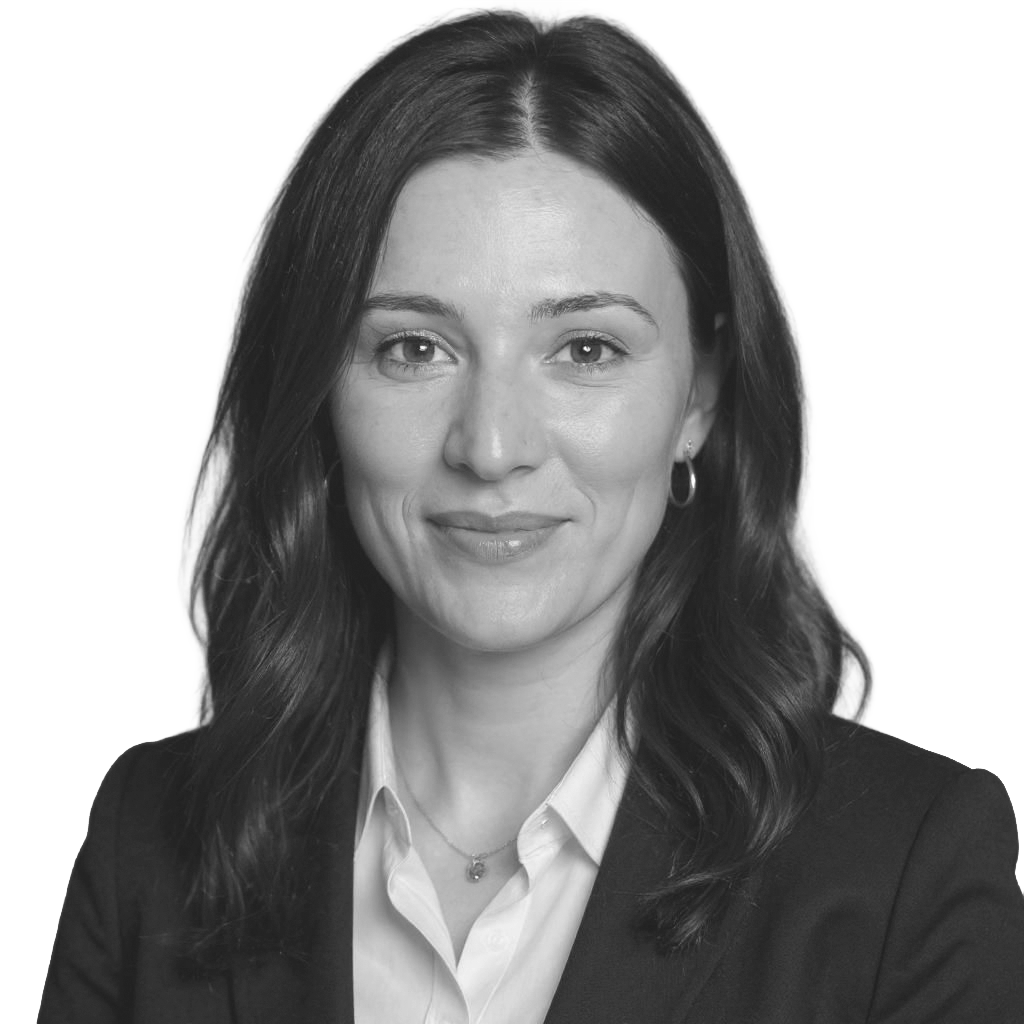
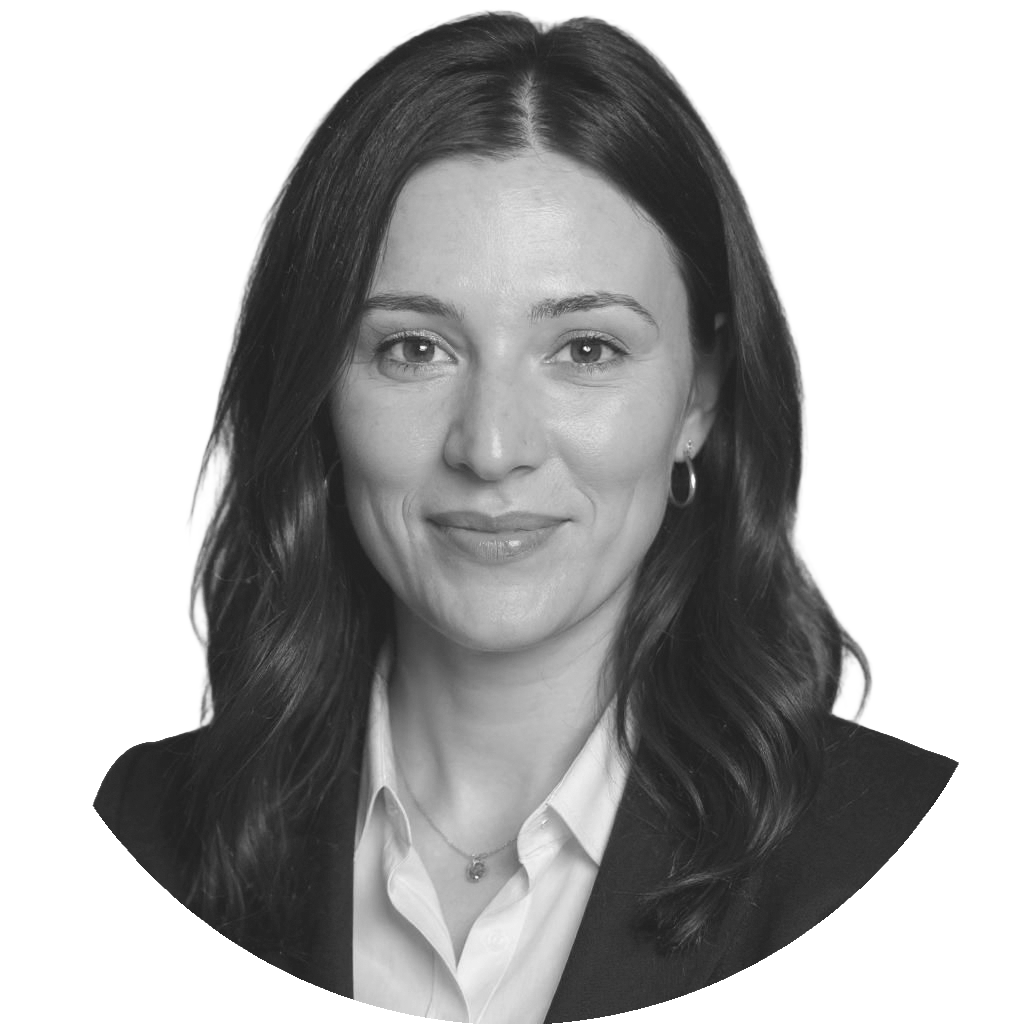
adjusted photo

diff --git a/src/App.tsx b/src/App.tsx
@@ -555,7 +555,7 @@ function SignalSection({ language }: { language: Language }) {
   return (
     <div className="flex-1 flex flex-col justify-center relative">
       <div className="mb-24 flex flex-col md:flex-row items-start md:items-end gap-12">
-        <div className="w-48 h-64 bg-paper overflow-hidden border border-ink/10 flex-shrink-0">
+        <div className="w-48 h-48 overflow-hidden ink/10 flex-shrink-0">
           <img 
             src={bruPng}
             alt="Bruna Bulgarelli" 
